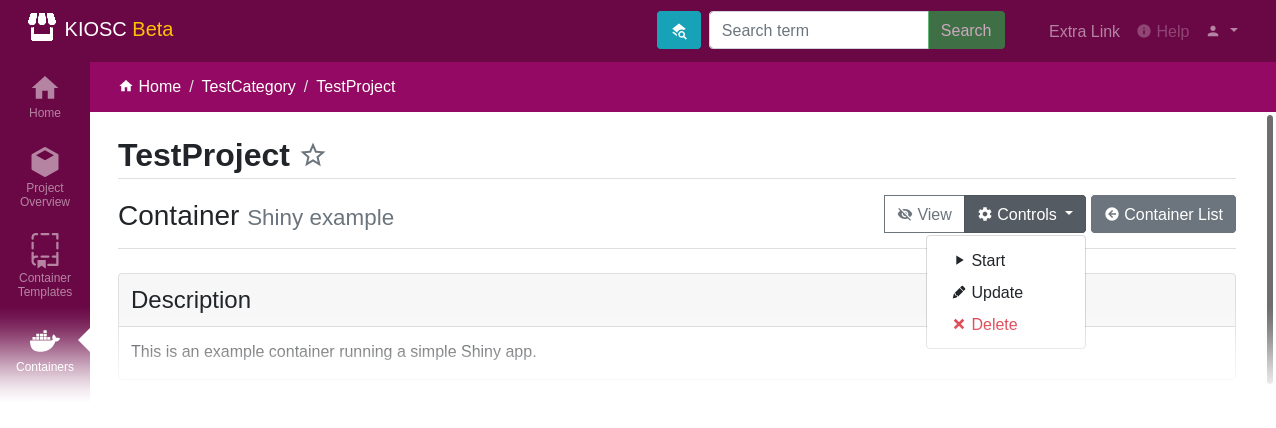
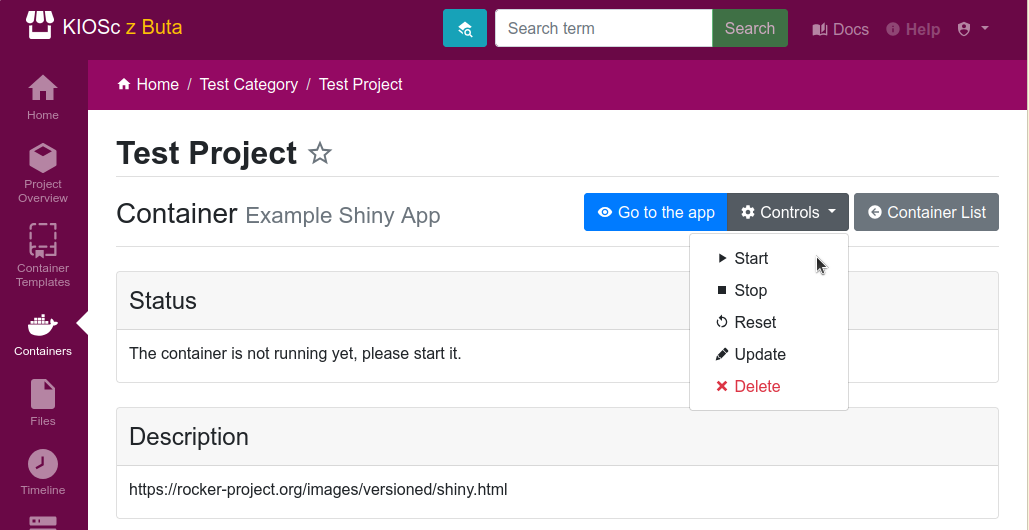
update docs

Changed region(s): [[0.0, 0.0, 1.0, 1.0], [0.1244, 0.9112, 0.4976, 0.9416]]

diff --git a/containertemplates/views.py b/containertemplates/views.py
@@ -619,19 +619,21 @@ class ContainerTemplateSelectorApiView(LoginRequiredMixin, View):
 
         if site_or_project == 'site':
             if containertemplate_id == 'blank':
-                return JsonResponse({
-                    'title': '',
-                    'description': '',
-                    'repository': '',
-                    'tag': '',
-                    'registry_user': '',
-                    'registry_password': '',
-                    'container_port': 80,
-                    'container_path': '',
-                    'heartbeat_url': '',
-                    'environment': None,
-                    'command': '',
-                })
+                return JsonResponse(
+                    {
+                        'title': '',
+                        'description': '',
+                        'repository': '',
+                        'tag': '',
+                        'registry_user': '',
+                        'registry_password': '',
+                        'container_port': 80,
+                        'container_path': '',
+                        'heartbeat_url': '',
+                        'environment': None,
+                        'command': '',
+                    }
+                )
 
             try:
                 obj = ContainerTemplateSite.objects.get(id=containertemplate_id)

diff --git a/docs/source/apps_containers_details.rst b/docs/source/apps_containers_details.rst
@@ -12,21 +12,30 @@ A detailed description of all the fields can be found below.
 Initial container
 ^^^^^^^^^^^^^^^^^
 
-When you create a container, the detail page will provide
-you with information about the container object. Please note
-that the container is still in initial state and not running yet.
+When you create a container, the detail page will provide you with information about the container object.
+Please note that the container is still in initial state and not running yet.
 
 .. image:: figures/apps/containers/details_created1.png
   :alt: Details of an initial container
 
-In the bottom of the page the logs are displayed. In this case
-the logs only contain one entry, indicating that the object
-has been created.
+The "Status" box tells you about the current state of the container.
+If any errors occur, they will also appear here.
+
+The "Description" box repeats the description you chose to give to your container.
+
+Then come the "Logs", which report two types of entries:
+
+- Actions performed on the container.
+- Logs coming from the app inside the container.
+
+The "Recent Events" table displays a timeline of all the events related to the container, including who and when accessed it.
 
 .. image:: figures/apps/containers/details_created2.png
   :alt: Details of an initial container, showing logs
 
-To start the container, open the operator menu located on the
+Finally, the "Details" card provides the technical details of the container, which normally shouldn't concern you too much, unless you want to change something.
+
+To start the container, open the Controls menu located on the
 right-hand side of the title and click the ``Start`` item. The Docker container
 will be created and started. This menu also provides you with the
 options to edit (``Update``) or ``Delete`` the container.
@@ -37,34 +46,22 @@ options to edit (``Update``) or ``Delete`` the container.
 Running container
 ^^^^^^^^^^^^^^^^^
 
-Once the container is running, the detail page for the container
-changes. The operator menu will change its entries, the button
-to access the proxy server with the eye icon will turn blue and
-the state of the container will be set to ``running``.
-
-.. image:: figures/apps/containers/details_running1.png
-  :alt: Details of a running container
-
-The logs will be updated and now contain the logs coming
-from the Docker container.
-
-.. image:: figures/apps/containers/details_running2.png
+.. image:: figures/apps/containers/details_running_logs.png
   :alt: Details of a running container, showing logs
 
-When a user accesses the container via the proxy URL (which
-is triggered by clicking the button with the eye icon),
-this will also be displayed in the logs. Look out for an entry
-that is provided by ``(Proxy)``, starting with ``Accessing [...]``.
+Once the container is running, the logs will be updated in real time with entries coming mostly from the container itself.
+However, for convenience, container actions triggered either by users or backgrond jobs (such as stopping the container) will also be logged.
 
-.. image:: figures/apps/containers/details_running3.png
+.. image:: figures/apps/containers/details_running_timeline.png
   :alt: Details of a running container, proxy access
 
-Fields
-^^^^^^
+When a user opens the container app, an entry will be created in the container timeline.
 
-Environment & Environment Secret Keys
-~~~~~~~~~~~~~~~~~~~~~~~~~~~~~~~~~~~~~
+Container Details Card
+^^^^^^^^^^^^^^^^^^^^^^
 
+The container details card is a low-level description of the container object.
+A few clarifications are in order.
 Names of sensitive environment variables can be entered in the ``Environment secret keys`` field.
 
 If you have set an ``environment`` and registered ``environment_secret_keys``,
@@ -73,59 +70,4 @@ as ``<masked>``, indicating that they are available to the system but
 are not displayed for security reasons. However, they will still be visible
 in plain in the container environment.
 
-State
-~~~~~
-
-The current state is presented and highlighted:
-
-- **initial**, indicating that the database object has been created but no actual Docker container exists yet.
-- **running**
-- **failed**, indicating that something went wrong
-- **exited**
-- **paused**
-
-If there is a small bell icon next to the state, this indicates
-that the last user action and the current state of the Docker container
-do not match.
-
-Last action
-~~~~~~~~~~~
-
-The last action performed on the container of any user is displayed, if available.
-If there is an inconsistency found between the actual Docker state and the last
-user action (indicated by the bell icon right to the state), a cron job running
-every few minutes tries to perform the last known issued user action. The first
-number next to the action is a counter, indicating how many times it tried to re-perform the action,
-with the maximal limit indicated by the second number.
-
-Date of latest Docker log
-~~~~~~~~~~~~~~~~~~~~~~~~~
-
-When a Docker log has been fetched in the past, this date indicates the
-timestamp of the latest Docker log and synchronisation of the Docker
-state. Docker logs are not displayed immediately in the log file but
-fetched by a background process every few minutes. This line is missing
-when there are no fetched Docker logs.
-
-Logs
-~~~~
-
-The logs will update themselves every half minute. As described above, Docker logs
-are also fetched only every few minutes from the Docker container, thus there can
-be a bit of latency until logs are displayed.
-
-The log window combines logs from multiple sources. The structure of a log entry is::
-
-    [YYYY-MM-DD HH:MM:SS <LOG_LEVEL> <USER>] (<PROCESS>) <MESSAGE>
-
-For example::
-
-    [2021-09-08 22:57:26 INFO anonymous] (Task) Syncing last registered container state (running) with current Docker state (exited)
-
-Currently the following sources can contribute to the log:
-
-- **Task:** Logs reported by automatically running background tasks. Usually they are issued by ``anonymous``.
-- **Docker:** Logs reported by Docker for this container. They are fetched every half minute, so they might not appear immediately.
-- **Action:** Any action the user issues on the container.
-- **Proxy:** Issued when accessing the proxy.
-- **Object:** Issued when changes in the database object are made that represents the Container in Kiosc.
+Similary, if your container image comes from a private registry, the username and password fields will be masked.

diff --git a/docs/source/apps_containers_create.rst b/docs/source/apps_containers_create.rst
@@ -42,13 +42,13 @@ Container templates
 It is often the case that the same type of container will be used multiple times
 across the site. To save some time and reduce the chances of mistakes, Kiosc
 provides container templates. To make use of them, select a template from the
-top-hand dropdown menu and click ``Get``. This will populate all form fields
-that are set in the template with you create form. Anything you already entered
-will be overwritten. The prefix ``[Site-wide]`` or ``[Project-wide]`` indicates
-whether this template is either a site-wide or a project-wide template. By
-default, one template for an example Shiny app is available (it does not contain
-any meaningful data and is just meant as a toy example). Admins can then create
-additional site-wide templates.
+top-hand dropdown menu. This will populate all form fields that are set in the
+template with you create form. Anything you already entered will be overwritten.
+The prefix ``[Site-wide]`` or ``[Project-wide]`` indicates whether this template
+is either a site-wide or a project-wide template. By default, one template for
+an example Shiny app is available (it does not contain any meaningful data and
+is just meant as a toy example). Admins can then create additional site-wide
+templates.
 
 Registry user and Registry password
 ^^^^^^^^^^^^^^^^^^^^^^^^^^^^^^^^^^^
